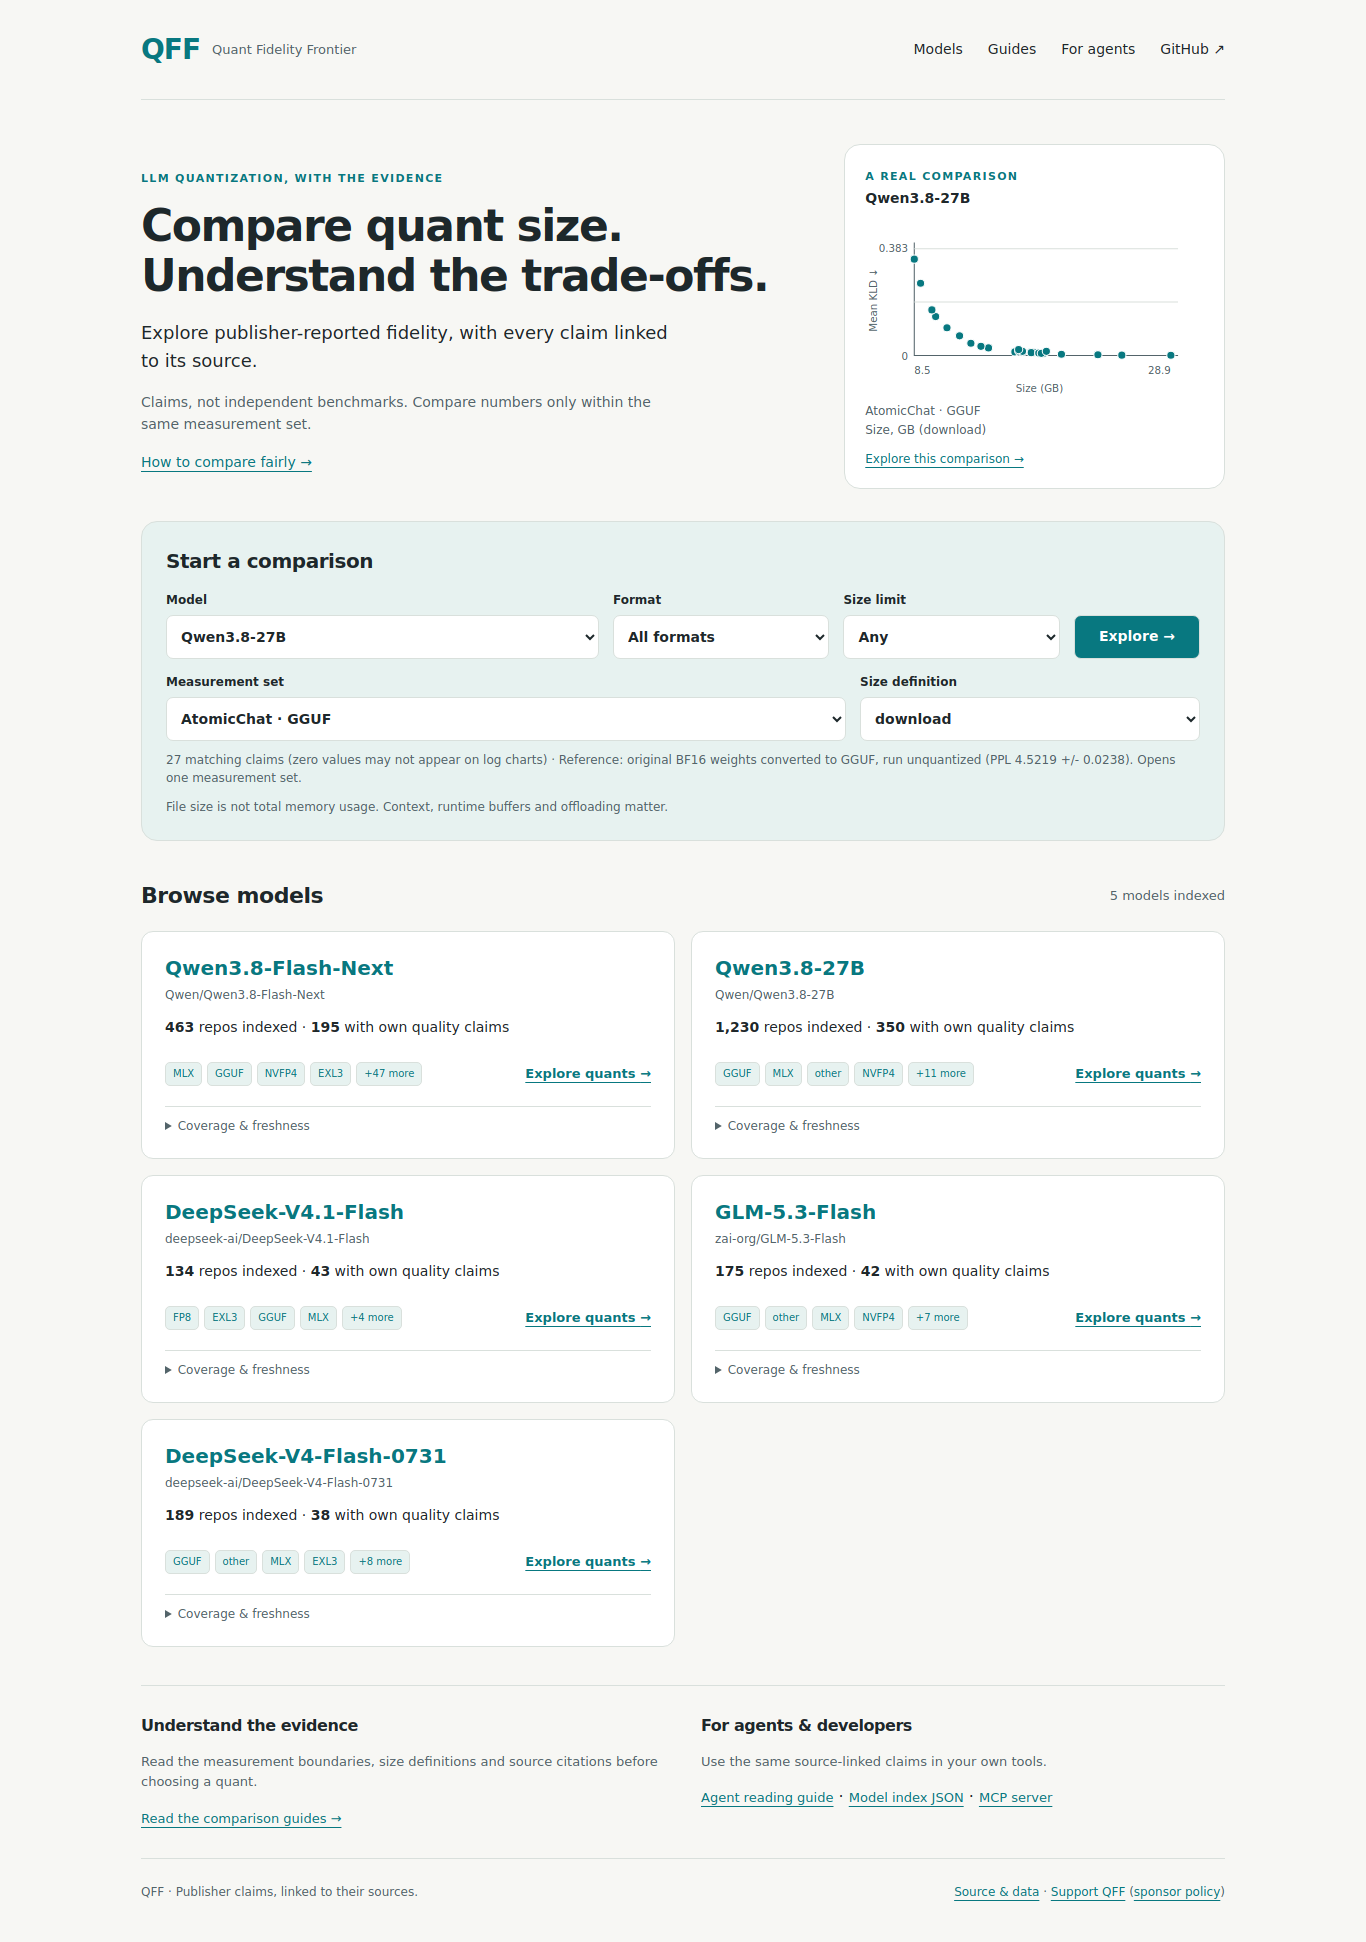
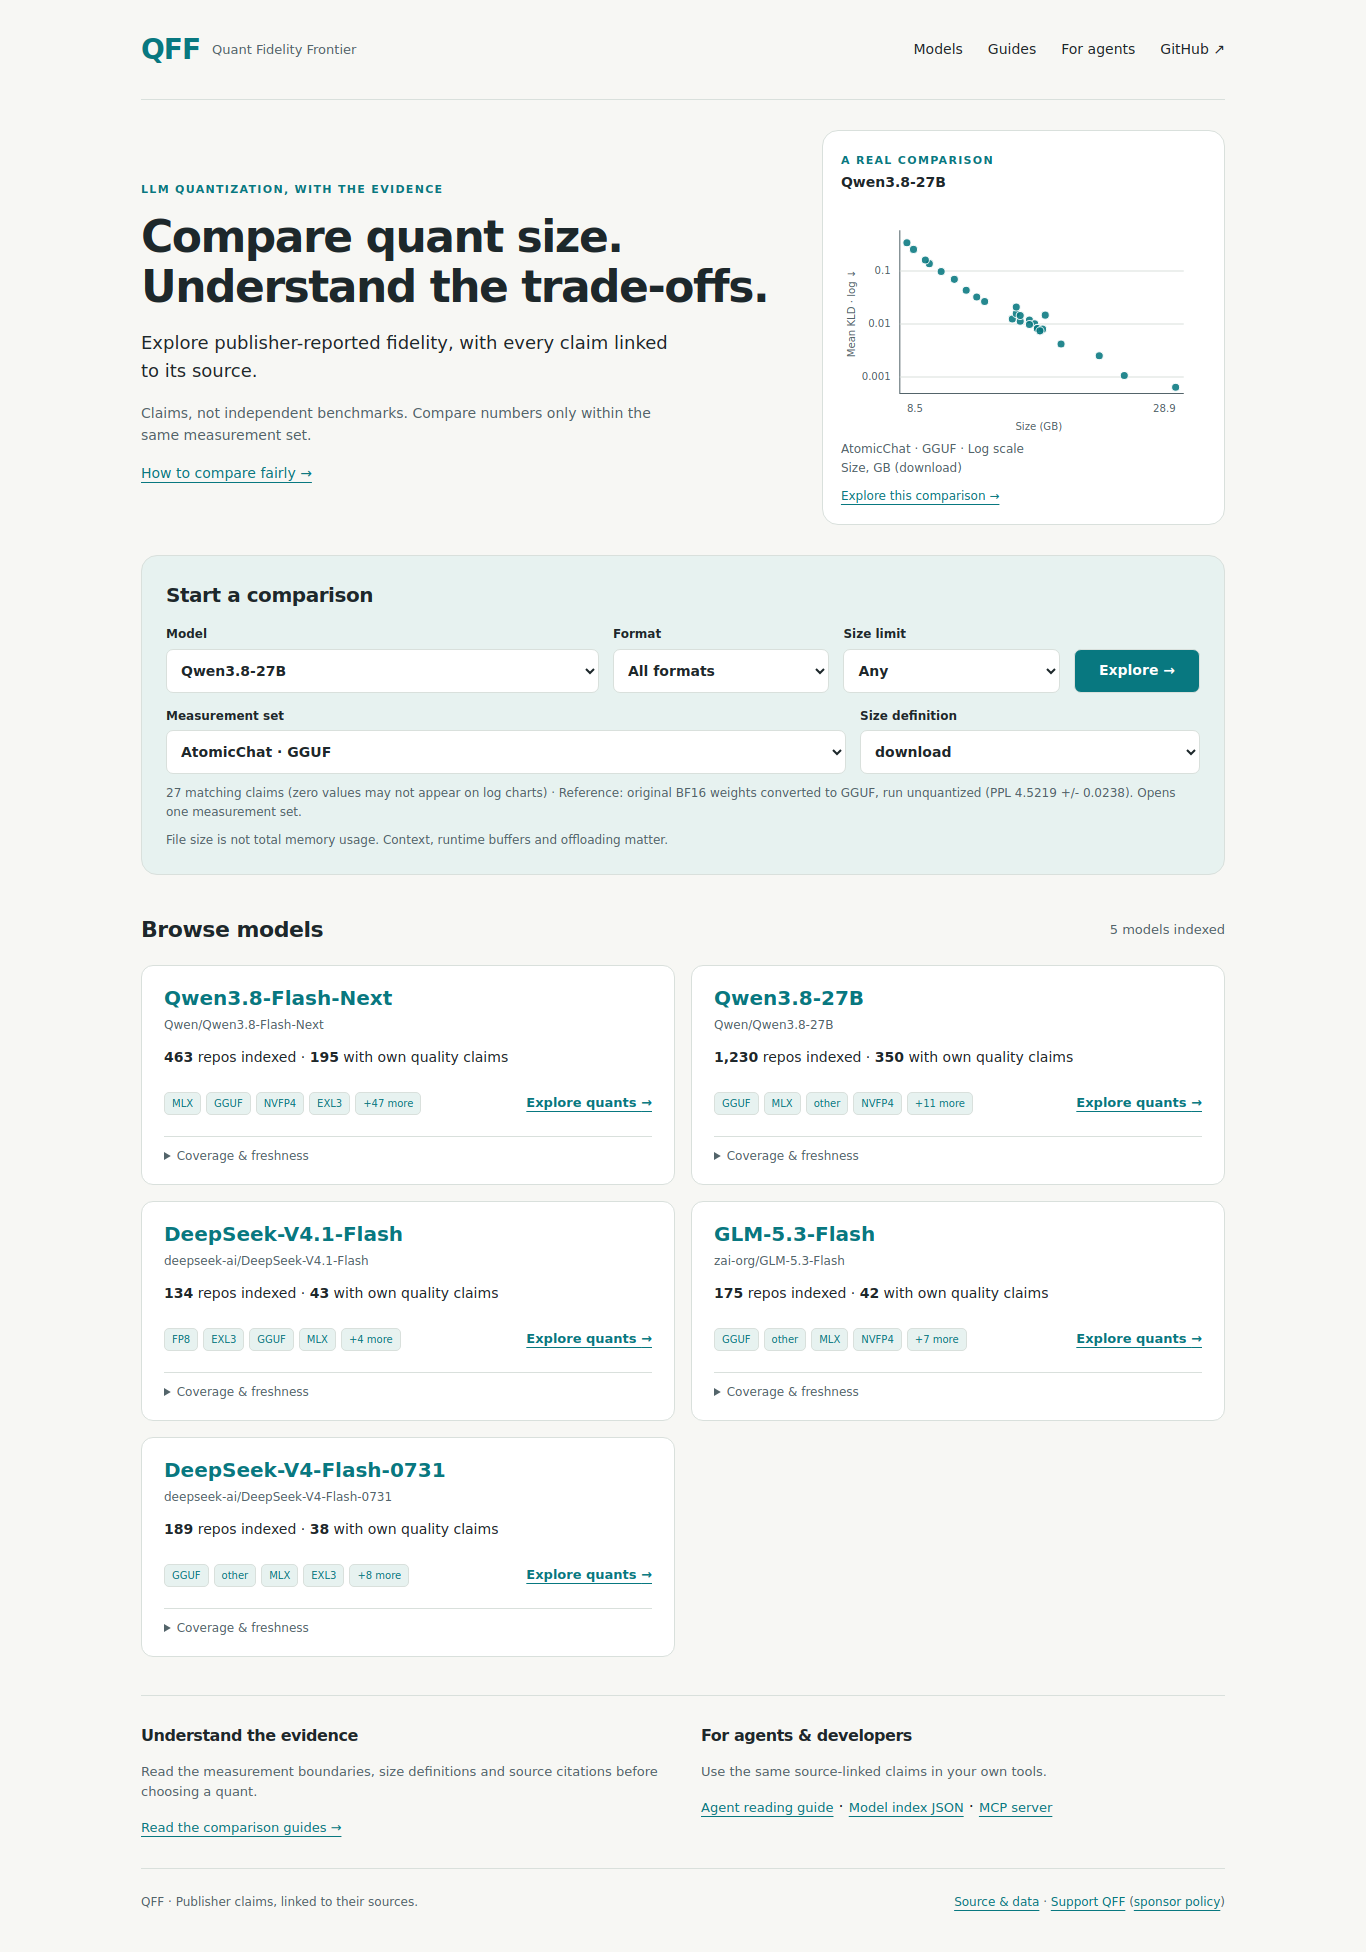
Use logarithmic KLD scale in homepage preview

diff --git a/web/home.css b/web/home.css
@@ -1,2 +1,5 @@
 :root{--bg:#f7f7f4;--fg:#1d282b;--dim:#53646a;--card:#fff;--line:#d9e0dc;--acc:#087880;--soft:#e7f2f0;color-scheme:light}*{box-sizing:border-box}body{margin:0;background:var(--bg);color:var(--fg);font:16px/1.55 system-ui,-apple-system,"Segoe UI",sans-serif}a{color:var(--acc);text-underline-offset:4px}a:hover{text-decoration:underline}a:focus-visible,button:focus-visible,select:focus-visible,summary:focus-visible{outline:3px solid var(--acc);outline-offset:4px}.shell{max-width:1140px;margin:auto;padding:0 28px}header{display:flex;align-items:center;justify-content:space-between;gap:24px;padding:28px 0;border-bottom:1px solid var(--line)}.brand{display:flex;align-items:center;gap:12px;text-decoration:none}.brand b{font-size:28px;letter-spacing:-1px}.brand span{color:var(--dim);font-size:13px}nav{display:flex;gap:25px}nav a{font-size:14px;color:var(--fg);text-decoration:none;padding:8px 0}.hero{display:grid;grid-template-columns:1.7fr 1fr;gap:56px;align-items:center;padding:44px 0 32px}.eyebrow{font-size:11px;font-weight:750;letter-spacing:.12em;color:var(--acc)}h1{font-size:clamp(30px,3.5vw,44px);line-height:1.13;letter-spacing:-1.5px;margin:14px 0 18px}h2{font-size:22px;letter-spacing:-.45px;margin:0}h3{font-size:20px;line-height:1.3;margin:0}.lede{font-size:18px;max-width:48ch}.trust{color:var(--dim);font-size:14px;max-width:60ch}.text-link{font-size:14px}.preview{margin:0;padding:18px 20px;background:var(--card);border:1px solid var(--line);border-radius:16px}.preview strong{display:block;font-size:14px}.preview svg{width:100%;height:auto;display:block;margin:12px 0 0;overflow:visible}.preview path{stroke:var(--dim);fill:none}.preview .gridline{stroke:var(--line)}.preview circle{fill:var(--acc);stroke:var(--card);stroke-width:1}.preview text{font-size:10px;fill:var(--dim)}.preview p,.preview a{font-size:12px}.preview p{color:var(--dim);margin:6px 0}.quick{background:var(--soft);padding:24px;border:1px solid var(--line);border-radius:16px;margin:0 0 38px}.quick h2{font-size:20px;margin-bottom:14px}.controls{display:grid;grid-template-columns:2fr 1fr 1fr auto;gap:14px;align-items:end}label{display:block;font-size:12px;font-weight:650;min-width:0}select,button{font:inherit;min-height:44px;border:1px solid var(--line);border-radius:7px}select{display:block;width:100%;max-width:100%;padding:9px 10px;margin-top:5px;background:var(--card);color:var(--fg);font-size:14px}button{background:var(--acc);color:white;padding:10px 24px;font-size:14px;font-weight:650;cursor:pointer}button:disabled{opacity:.55;cursor:not-allowed}.context-controls{display:grid;grid-template-columns:2fr 1fr;gap:14px;margin-top:14px}.caution,#selection-note{font-size:12px;color:var(--dim);margin:10px 0 0}.section-heading{display:flex;align-items:center;justify-content:space-between;gap:12px;margin-bottom:18px}.section-heading span{font-size:13px;color:var(--dim)}.model-grid{display:grid;grid-template-columns:repeat(2,minmax(0,1fr));gap:16px}.model-card{padding:23px;background:var(--card);border:1px solid var(--line);border-radius:12px;min-width:0}.model-card:hover{border-color:var(--acc)}.model-card h3 a{text-decoration:none;overflow-wrap:anywhere}.org{font-size:12px;color:var(--dim);margin:5px 0 12px;overflow-wrap:anywhere}.coverage{font-size:14px;margin:0 0 18px}.card-actions{display:flex;align-items:center;justify-content:space-between;gap:12px;flex-wrap:wrap}.pills{display:flex;gap:5px;flex-wrap:wrap}.pill{font-size:10px;color:var(--acc);background:var(--soft);border:1px solid var(--line);padding:3px 7px;border-radius:5px}.explore{font-size:13px;font-weight:650;white-space:nowrap;padding:7px 0}details{font-size:12px;color:var(--dim);margin-top:15px;border-top:1px solid var(--line);padding-top:10px}summary{cursor:pointer}details p{margin:8px 0 0}.resources{display:grid;grid-template-columns:1fr 1fr;gap:36px;border-top:1px solid var(--line);margin:38px 0 0;padding:28px 0}.resources h2{font-size:16px}.resources p,.resources a{font-size:13px}.resources p{color:var(--dim)}footer{border-top:1px solid var(--line);padding:24px 0 40px;display:flex;justify-content:space-between;gap:20px;flex-wrap:wrap;color:var(--dim);font-size:12px}.skip{position:absolute;left:16px;top:-80px;background:var(--card);padding:10px;z-index:2}.skip:focus{top:12px}[hidden]{display:none!important}@media(max-width:760px){.shell{padding:0 18px}header{align-items:flex-start;gap:12px;flex-direction:column;padding:18px 0}nav{gap:22px;width:100%;flex-wrap:wrap}.hero{grid-template-columns:1fr;gap:22px;padding:26px 0}.preview{display:none}h1{letter-spacing:-1px}.lede{font-size:16px}.quick{padding:18px;margin-bottom:28px}.controls{grid-template-columns:1fr 1fr}.controls label:first-child{grid-column:1/-1}.controls button{grid-column:1/-1}.context-controls{grid-template-columns:1fr}.model-grid,.resources{grid-template-columns:1fr}.model-card{padding:19px}.section-heading{align-items:baseline}.section-heading h2{font-size:21px}.section-heading span{font-size:12px}}@media(prefers-color-scheme:dark){:root{--bg:#111819;--fg:#e7eeee;--dim:#adbcbd;--card:#192224;--line:#344345;--acc:#66cbd1;--soft:#1c3537;color-scheme:dark}button{color:#102426}}
 @media(max-width:760px){main{display:flex;flex-direction:column}.hero{display:contents}.hero>div{order:0;padding:26px 0}.quick{order:1}#models{order:2}.preview{display:block;order:3;margin-top:28px;max-width:420px;width:100%;align-self:center}.resources{order:4}footer{order:5}}
+/* Give the logarithmic preview enough height to distinguish low-KLD quants. */
+@media(min-width:761px){.hero{grid-template-columns:1.6fr 1fr;gap:36px;padding:30px 0}.preview{padding:16px 18px}.model-card{padding:19px 22px}}
+.preview circle{opacity:.88}.preview circle:hover{opacity:1;stroke:var(--fg);stroke-width:2}

diff --git a/homepage.py b/homepage.py
@@ -2,6 +2,7 @@
 import html
 from collections import Counter
 import json
+import math
 import re
 from pathlib import Path
 from urllib.parse import urlencode
@@ -61,17 +62,28 @@ def build_homepage(out, models, base, analytics, support):
     if preview:
         model, source, points = preview
         x0, x1 = min(p['x'] for p in points), max(p['x'] for p in points)
-        y1 = max(p['m']['kld']['v'] for p in points) * 1.12 or 1
+        omitted = sum(p['m']['kld']['v'] <= 0 for p in points)
+        points = [p for p in points if p['m']['kld']['v'] > 0]
+        low = math.log10(min(p['m']['kld']['v'] for p in points)) - .12
+        high = math.log10(max(p['m']['kld']['v'] for p in points)) + .12
+        def Y(value):
+            return 185 - 155 * (math.log10(value) - low) / (high - low)
+        ticks = ''
+        for exponent in range(math.ceil(low), math.floor(high) + 1):
+            value = 10 ** exponent
+            y = Y(value)
+            ticks += f'<path class="gridline" d="M58 {y:.2f}H338"/><text x="49" y="{y+3:.2f}" text-anchor="end">{value:g}</text>'
+        zero_note = f' · {omitted} zero/non-positive values omitted from log scale' if omitted else ''
         dots = ''
         for p in points:
-            x = 48 + 250 * (p['x']-x0)/(x1-x0 or 1)
-            y = 130 - 105 * p['m']['kld']['v']/y1
+            x = 65 + 265 * (p['x']-x0)/(x1-x0 or 1)
+            y = Y(p['m']['kld']['v'])
             title = f"{p['variant']}: {p['x']:g} GB, KLD {p['m']['kld']['raw']}"
             dots += f'<a href="{esc(p["src"])}" aria-label="{esc(title)}"><circle cx="{x:.2f}" cy="{y:.2f}" r="4"><title>{esc(title)}</title></circle></a>'
         href = model['slug'] + '/?' + urlencode({'set':source['id'], 'm':'kld'}) + '#chart'
         chart = f'''<figure class="preview"><figcaption><span class="eyebrow">A REAL COMPARISON</span><strong>{esc(model['model'].split('/')[-1])}</strong></figcaption>
-<svg viewBox="0 0 330 170" role="img" aria-label="Mean KLD versus size within {esc(source['title'])}; linear axes"><path d="M48 20V130H305"/><path class="gridline" d="M48 78H305M48 26H305"/><text x="42" y="134" text-anchor="end">0</text><text x="42" y="29" text-anchor="end">{y1:.3g}</text><text x="48" y="148">{x0:g}</text><text x="298" y="148" text-anchor="end">{x1:g}</text><text x="170" y="166" text-anchor="middle">Size (GB)</text><text transform="translate(12 76) rotate(-90)" text-anchor="middle">Mean KLD ↓</text>{dots}</svg>
-<p>{esc(source['title'])}<br>{esc(source['x']['label'])}</p><a href="{esc(href)}">Explore this comparison →</a></figure>'''
+<svg viewBox="0 0 360 225" role="img" aria-label="Mean KLD versus size within {esc(source['title'])}; logarithmic KLD axis, linear size axis"><path d="M58 24V185H338"/>{ticks}<text x="65" y="203">{x0:g}</text><text x="330" y="203" text-anchor="end">{x1:g}</text><text x="195" y="221" text-anchor="middle">Size (GB)</text><text transform="translate(14 106) rotate(-90)" text-anchor="middle">Mean KLD · log ↓</text>{dots}</svg>
+<p>{esc(source['title'])} · Log scale{esc(zero_note)}<br>{esc(source['x']['label'])}</p><a href="{esc(href)}">Explore this comparison →</a></figure>'''
     default_slug = preview[0]['slug'] if preview else (catalog[0]['slug'] if catalog else '')
     for entry in catalog:
         if preview and entry['slug'] == default_slug:

diff --git a/tests/test_homepage.py b/tests/test_homepage.py
@@ -35,6 +35,9 @@ async def main():
             assert await page.input_value('#home-set') == 'a-atomicchat-gguf'
             assert await page.locator('.preview strong').inner_text() == 'Qwen3.8-27B'
             assert await page.locator('.preview circle').count() == 27
+            assert 'logarithmic KLD' in await page.locator('.preview svg').get_attribute('aria-label')
+            ys = await page.locator('.preview circle').evaluate_all('(nodes) => nodes.map(n => Number(n.getAttribute("cy")))')
+            assert max(ys) - min(ys) > 140  # real values spread over the logarithmic axis
             assert await page.evaluate('document.documentElement.scrollWidth <= innerWidth'), width
             # Expanded provenance and all model options must fit narrow screens too.
             await page.locator('summary').first.click()

diff --git a/PROGRESS.md b/PROGRESS.md
@@ -81,3 +81,4 @@
 - GitHub Pages: static-only output, relative links, no backend/API dependency, 11.5 MB assembled site. Assembly now rejects output at the documented 1 GB published-site limit.
 - Review screenshots: `docs/previews/homepage-desktop.png` and `docs/previews/homepage-mobile.png`. Merge/deployment remains for owner review.
 - Owner refinement: Qwen3.8-27B now supplies the example chart and quick-start default. Uses AtomicChat's 27 source-linked KLD points, all with download-size basis; the preview and selected measurement set agree. Other model ordering remains unchanged.
+- Owner visual correction: homepage Mean KLD preview now uses an explicitly labeled logarithmic y-axis and a taller plot, retaining all 27 actual positive KLD values. Source values and linear GB x-axis are unchanged. No illustrative/jittered points. Regression checks verify the log label and vertical spread.
